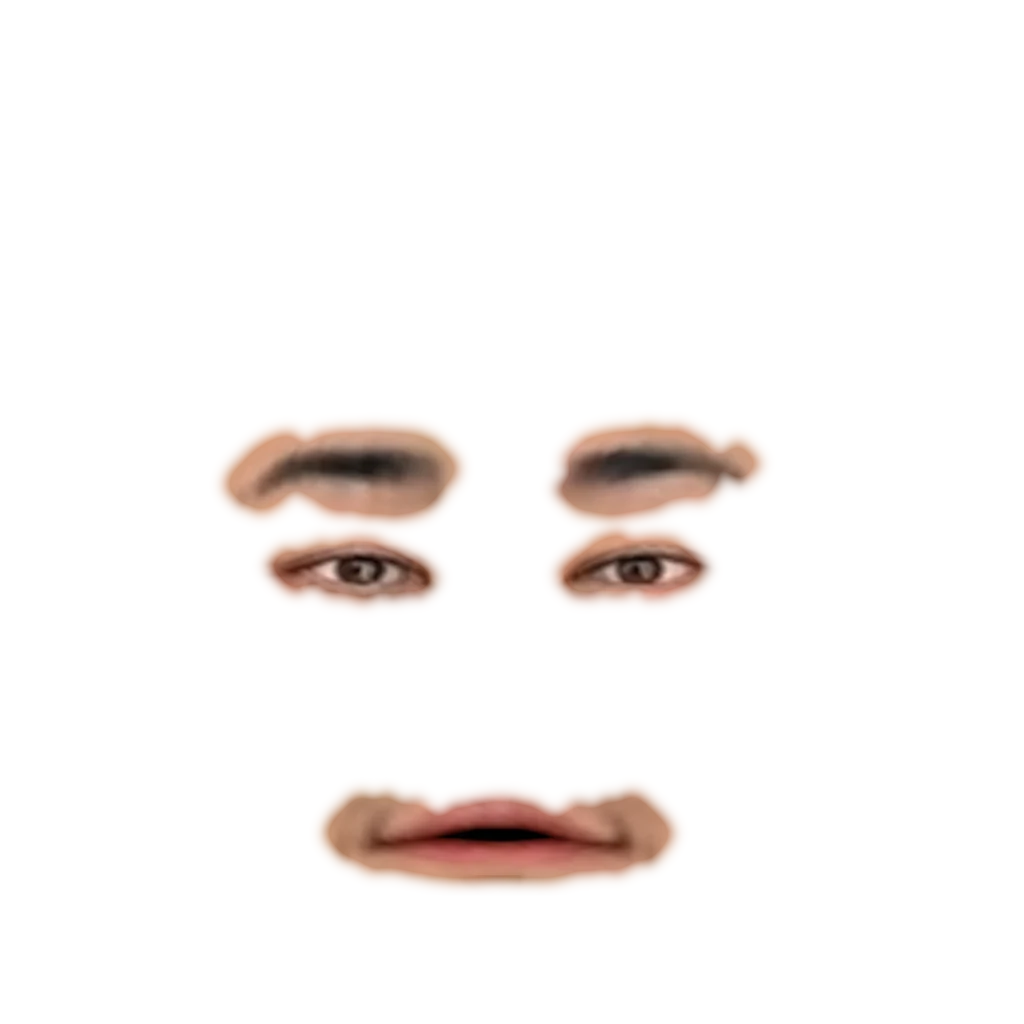
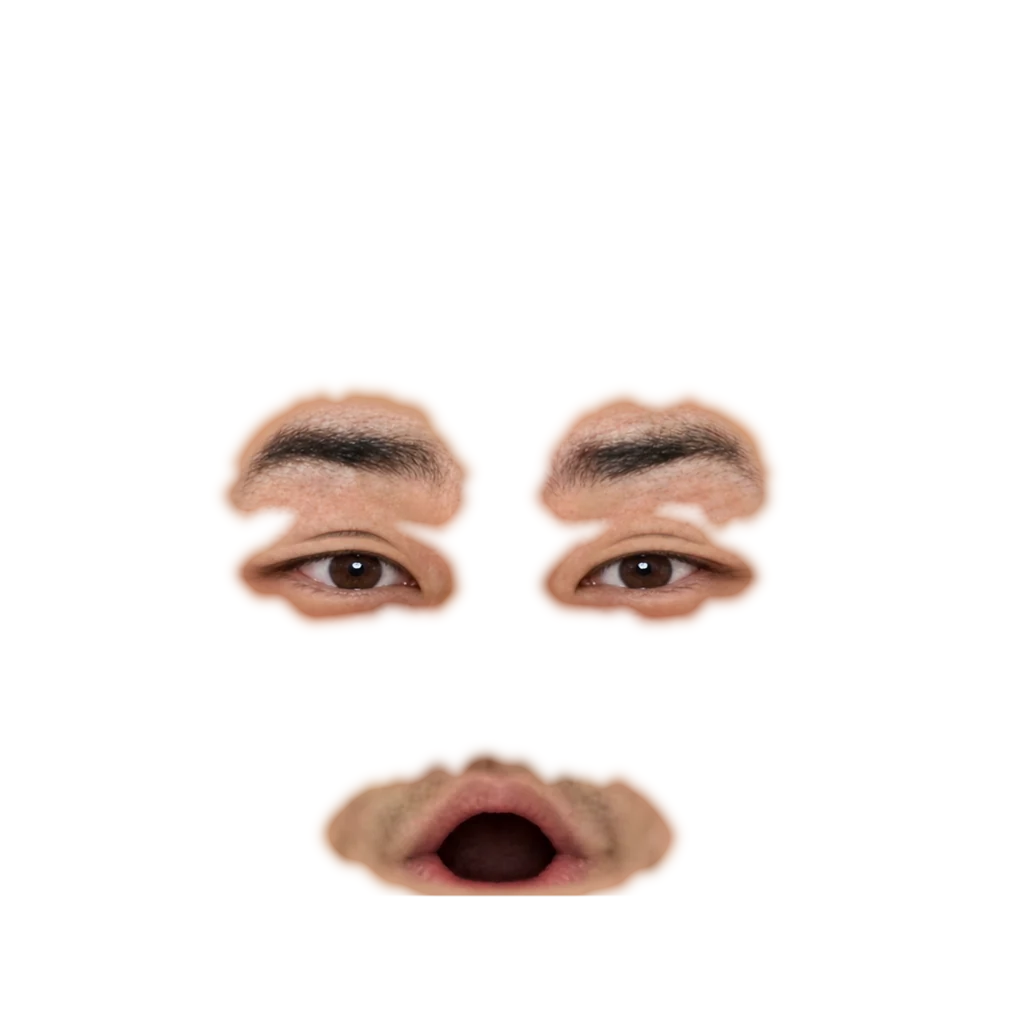
fix: 이미지 기반 환자 눈을 자연스럽게 뜨고 깜빡이게

Changed region(s): [[0.2188, 0.375, 0.4688, 0.625], [0.5, 0.375, 0.7812, 0.625], [0.3438, 0.7188, 0.6562, 0.875]]

diff --git a/src/scene/realAssets.js b/src/scene/realAssets.js
@@ -83,9 +83,9 @@ const MODELS = {
   patient11: {crown: 1.6484, chin: 1.3876, back: -0.045,     // image-to-3D, see below
     ear: [0.072, 0.015, 0.027], face: {x: 0, y: 1.51, size: 0.22, split: 0.375}},
   patient12: {crown: 1.6466, chin: 1.4150, back: -0.13,       // 마동철 image-to-3D, see below
-    seam: {y: 1.45, rx: 0.12, rz: 0.14, len: 0.06}, face: {x: 0, y: 1.54, size: 0.24, split: 0.31}},
+    seam: {y: 1.45, rx: 0.12, rz: 0.14, len: 0.06}, face: {x: 0, y: 1.54, size: 0.24, split: 0.31, fix: true}},
   patient13: {crown: 1.4910, chin: 1.1600, back: -0.20,       // 복순할매 image-to-3D, see below
-    ear: [0.095, 0.045, 0.03], seam: {y: 1.21, rx: 0.10, rz: 0.12, cz: 0.03, len: 0.05}, face: {x: 0, y: 1.31, size: 0.22, split: 0.28}},
+    ear: [0.095, 0.045, 0.03], seam: {y: 1.21, rx: 0.10, rz: 0.12, cz: 0.03, len: 0.05}, face: {x: 0, y: 1.31, size: 0.22, split: 0.28, fix: true}},
   patient14: {crown: 1.6801, chin: 1.3931, back: -0.15,       // 조멸치 image-to-3D, see below
     ear: [0.096, -0.021, 0.004], face: {x: 0, y: 1.515, size: 0.22, split: 0.34, fix: true}, twoSided: true}
 };
@@ -108,6 +108,10 @@ const MODELS = {
    face (seam.cz, GLB z) so the jaw goes with the head and the hump behind stays on the body. back: her upper back
    (-0.22), not the back of her skull (-0.16), lies on the table. ear: under the perm, as for patient11 (borrowedPoses). Only she uses it, only in 목꺾기: 목뽑기 and 강해녀, 사모님 keep
    patient09. */
+/* face.fix on patient12, 13 (user: "눈깔이가 너무 괴기하지 않냐. 우리 한미녀가 진짜 롤 모델이다. 자연스럽게 눈 떠 있고 감고
+   깜빡이게", 2026-10-25): Tripo baked 마동철's eyes half shut and 복순할매's as a smiling slit, so from above they read as
+   always closed. Their expr_fix paints natural open eyes (patient11's as the model), and the four expressions are drawn
+   over it, so a blink closes those eyes. patient14's fix got the same open eyes (it stared up, red under the iris). */
 /* patient14 (조멸치, user: "멸치남자도 3D 모델 만들고 목꺾기만 일단 진행해. 눈 디테일 신경쓰고", 2026-10-24): the same as
    patient11. His thin neck shows under the jaw, so a flat cut (z 1.42) does; the spiky hair is the crown, the chin is
    patient01's ratio from the chin tip (1.4365), back is his shoulders (-0.15), not the hair. ear: under the hair, as for
@@ -1298,6 +1302,8 @@ export function setRealPatient(id, look){
   syncArms();
 }
 export const realHeadActive = () => !!current();
+/* The head shows painted faces (image-to-3D, faceDecals): it rests with its eyes open (faceRig "idle"). */
+export const paintedFace = () => !!current()?.decals;
 
 /* Per frame from the loop: ease blendshapes toward the face state, and mirror the in-zone glow on the skin.
    t: seconds (the face's own motion), breathIn: 0..1 breath fill (nostrils). */

diff --git a/src/game/loop.js b/src/game/loop.js
@@ -17,7 +17,7 @@ import { tone, vib, crunch } from "../audio/audio.js";
 import { say, hideSpeech, headScreen, projectHead, floater } from "../ui/hud.js";
 import { drawRing } from "../ui/ring.js";
 import { live, aimHist } from "../input/motion.js";
-import { realHeadActive, updateRealFace, updateRealHands, updateRealBody, disableRealArms, towelGrips } from "../scene/realAssets.js";
+import { realHeadActive, paintedFace, updateRealFace, updateRealHands, updateRealBody, disableRealArms, towelGrips } from "../scene/realAssets.js";
 import { updateTowel } from "../scene/towel.js";
 import { updateTherapist, therapistShoulder } from "../scene/therapist.js";
 import { towelTension } from "../core/towel.js";
@@ -162,7 +162,7 @@ export function frame(now){
   mats.headSkin.emissiveIntensity = zone ? 0.14 : c*0.05;
 
   // face
-  const f = face(), pf = primitiveFace(f);
+  const f = face() === "rest" && paintedFace() ? "idle" : face(), pf = primitiveFace(f);
   const eyesOpenNow = faceEyesOpen(f);
   if(now > blinkAt){ blinkAt = now + 2500 + Math.random()*2500; }
   const blinking = eyesOpenNow && blinkAt - now > 2350 && blinkAt - now < 2500;

diff --git a/test/faceRig.test.js b/test/faceRig.test.js
@@ -65,6 +65,11 @@ describe("decalWeights (painted faces for a head without blendshapes)", () => {
     Object.values(top("worried")).forEach(([u, l]) => { expect(u).toBe(0); expect(l).toBe(0); });
     expect(top("worried", true).closed[0]).toBe(1);
   });
+  it("idle (rest on a painted face) keeps the eyes open and blinks", () => {
+    Object.values(top("idle")).forEach(([u, l]) => { expect(u).toBe(0); expect(l).toBe(0); });
+    expect(eyesOpen("idle")).toBe(true);
+    expect(top("idle", true).closed[0]).toBe(1);
+  });
   it("ouch squeezes the eyes and grimaces, relief smiles with closed eyes, startle goes wide and open-mouthed", () => {
     const o = top("ouch");
     expect(o.squeeze[0]).toBe(1); expect(o.closed[0]).toBe(0); expect(o.squeeze[1]).toBeGreaterThan(o.open[1]);

diff --git a/src/core/faceRig.js b/src/core/faceRig.js
@@ -27,6 +27,9 @@ export const EXPRESSION_UNITS = [
 // prim: what the primitive (fallback) face shows.
 const FACES = {
   rest:    {w: {...closure(1)}, prim: "rest"},
+  // rest on a painted face (realAssets faceDecals): eyes open and blinking instead of shut (user: "자연스럽게 눈 떠
+  // 있고 감고 깜빡이게", 2026-10-25); the loop swaps it in for "rest" (game/loop.js)
+  idle:    {w: {}, prim: "rest"},
   worried: {w: {...browUp(0.8)}, prim: "worried"},
   tense:   {w: {...browUp(0.5), ...browDown(0.45), ...slit(0.35), "mouth-compression": 0.7, ...flare(0.3)}, prim: "tense"},
   // wrong crack: screwed-up eyes, a snarl; then a pout with a frown

diff --git a/scripts/assets/README.md b/scripts/assets/README.md
@@ -175,6 +175,14 @@ blender -b -t 4 --python image3d_patient.py -- s2.glb patient13.glb body.glb pat
 - 고친 정면(`expr_fix.png`): 앞머리를 지운 이마의 검은 얼룩·부스러기, 한쪽 눈의 흰 번짐과 가는 조각, 눈썹 얼룩, 콧구멍 반짝임을 Codex가 고쳤다. `image3d_expr.py`는 `expr_fix.png`가 있으면 같이 뽑고, 게임은 `MODELS.<id>.face.fix`이면 그것을 표정 그림 밑에 늘 덮는다. 표정 4장은 고친 얼굴 위에 그렸다.
 - 머리 약 430 KB, 몸 약 380 KB(노멀·ORM 1024 / 512, webp 72)
 
+## 이미지 기반 환자 눈 다시 그리기 (patient12~14, 2026-10-25)
+
+사용자: "눈깔이가 너무 괴기하지 않냐. 우리 한미녀가 진짜 롤 모델이다. 자연스럽게 눈 떠 있고 감고 깜빡이게 바꿔." Tripo가 구운 바탕 눈이 마동철은 반쯤 감김, 복순할매는 웃는 실눈이라 위에서 보면 늘 감은 것 같았고, 조멸치는 치뜬 눈에 아래 흰자와 붉은 다크서클이 커서 괴기했다.
+
+- 세 명 모두 `expr_fix.png`(자연스럽게 뜬 평상시 눈)를 Codex가 최필라 정면을 기준(롤모델)으로 다시 그렸고, `MODELS.patient12/13.face.fix`도 켰다(patient14는 원래 켜져 있었다).
+- 감은 눈·질끈·웃음·놀람 4장은 새 `expr_fix` 위에 눈·눈썹만 다시 그렸다. 감은 눈꺼풀은 뜬 눈 영역을 다 덮는다(깜빡임도 이 그림).
+- 입은 예전 표정 그림을 그대로 쓴다: 스크래치 `merge.py`가 split 선(위 새 그림 / 아래 예전 그림, 48 px 띠로 섞음)으로 합친 뒤 `image3d_expr.py`로 뽑았다.
+
 ## 환자 몸
 
 `blender -b --python mpfb_export_body.py -- body_raw.glb 1024 16` (patient01과 같은 체형, 옷 `male_casualsuit06`, 두 손을 배 위에 올린 자세, 머리 GLB가 가져간 목 중간 위를 뺀 나머지, 피부×AO 굽기, 2본 스킨 `body`/`neck`, 모양 키 `breath`) 후

diff --git a/AGENTS.md b/AGENTS.md
@@ -447,4 +447,5 @@
   - 가는 목이 턱 밑에 드러나 평면으로 자른다(z 1.42). 귀는 머리카락 밑이라 `ear` + 빌린 자세다.
   - 눈: 이마 앞 앞머리가 피부색이 구워진 얇은 판이라 표정 그림이 그 위에서 유리 파편처럼 보였다. 피부 앞에 뜬 판을 지웠다(`scripts/assets/image3d_flaps.py`). 스캔 텍스처에는 한쪽 눈의 흰 번짐, 눈썹·이마 얼룩, 콧구멍 반짝임이 남았다. 고친 정면 그림(`expr_fix.webp`, `MODELS.patient14.face.fix`)을 표정 그림 밑에 늘 덮고, 표정 4장도 그 고친 얼굴 위에 그렸다.
   - 절차는 `scripts/assets/README.md` "이미지 기반 환자 4"에 있다. 폰 실기기 확인 전이다.
+- 이미지 기반 환자 눈(2026-10-25, 사용자: "야 눈깔이가 너무 괴기하지 않냐. 우리 한미녀가 진짜 롤 모델이다. 자연스럽게 눈 떠 있고 감고 깜빡이게 바꿔. 눈만 바꾸면 완벽하다 이제."): 마동철(반쯤 감긴 눈)·복순할매(웃는 실눈, 늘 감은 듯)·조멸치(치뜬 눈, 붉은 다크서클)의 바탕 눈을 최필라 수준의 자연스럽게 뜬 눈으로 다시 그려 `expr_fix`로 늘 덮는다(`MODELS.patient12/13.face.fix` 추가). 표정 4장의 눈은 그 위에 다시 그렸고 입은 예전 그림 그대로다. 쉴 때(`rest`) 다른 환자는 눈을 감고 눕지만, 그림 얼굴 환자(최필라 포함 넷)는 루프가 `idle`(뜬 눈, 깜빡임)로 바꿔 그린다(`game/loop.js`, `realAssets.js` `paintedFace`, `core/faceRig.js`). 마동철·할매가 늘 감은 듯 보인 진짜 원인이 이것이었다. 절차는 `scripts/assets/README.md` "이미지 기반 환자 눈 다시 그리기". 폰 실기기 확인 전이다.
 
